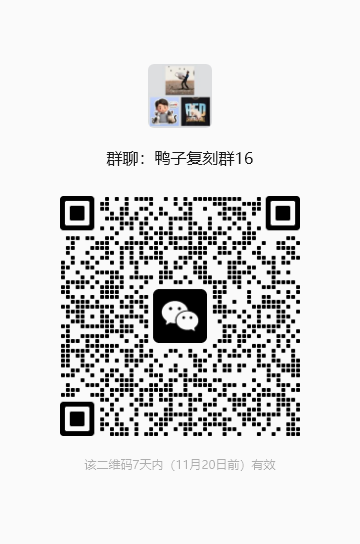
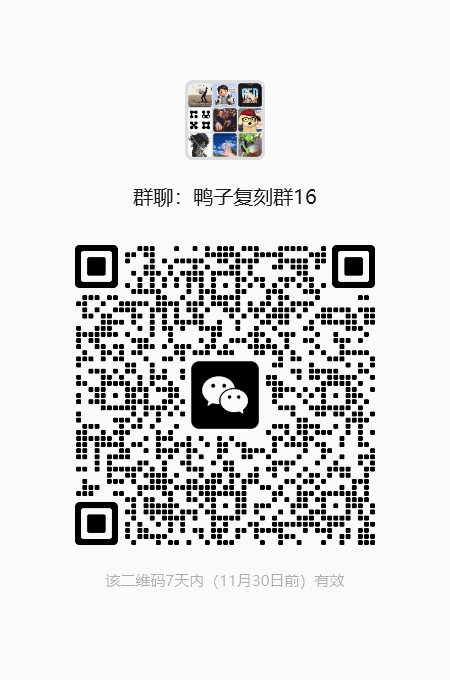
docs: refresh Group 16 WeChat invite for November 30

diff --git a/README.en.md b/README.en.md
@@ -67,7 +67,7 @@ The code below is for **Duck Replica Group 16** (WeChat disables QR joins once a
 <div align="center">
   <img src="assets/wechat-group-16.png" alt="Duck Replica Group 16 WeChat QR code" width="280">
   <br>
-  <sub><b>Duck Replica Group 16 · QR code valid before 2026-11-20</b> — WeChat group codes are valid for 7 days<br>
+  <sub><b>Duck Replica Group 16 · QR code valid before 2026-11-30</b> — WeChat group codes are valid for 7 days<br>
   If it has expired, open an <a href="https://github.com/fanhao375/microduck-replica/issues">issue</a> and I will post a fresh one</sub>
 </div>
 

diff --git a/README.md b/README.md
@@ -67,7 +67,7 @@
 <div align="center">
   <img src="assets/wechat-group-16.png" alt="鸭子复刻群 16 微信二维码" width="280">
   <br>
-  <sub><b>鸭子复刻群 16 · 二维码在 2026-11-20 前有效</b>（微信群码 7 天自动失效）<br>
+  <sub><b>鸭子复刻群 16 · 二维码在 2026-11-30 前有效</b>（微信群码 7 天自动失效）<br>
   过期了请开个 <a href="https://github.com/fanhao375/microduck-replica/issues">issue</a> 说一声，我会换上新的</sub>
 </div>
 
